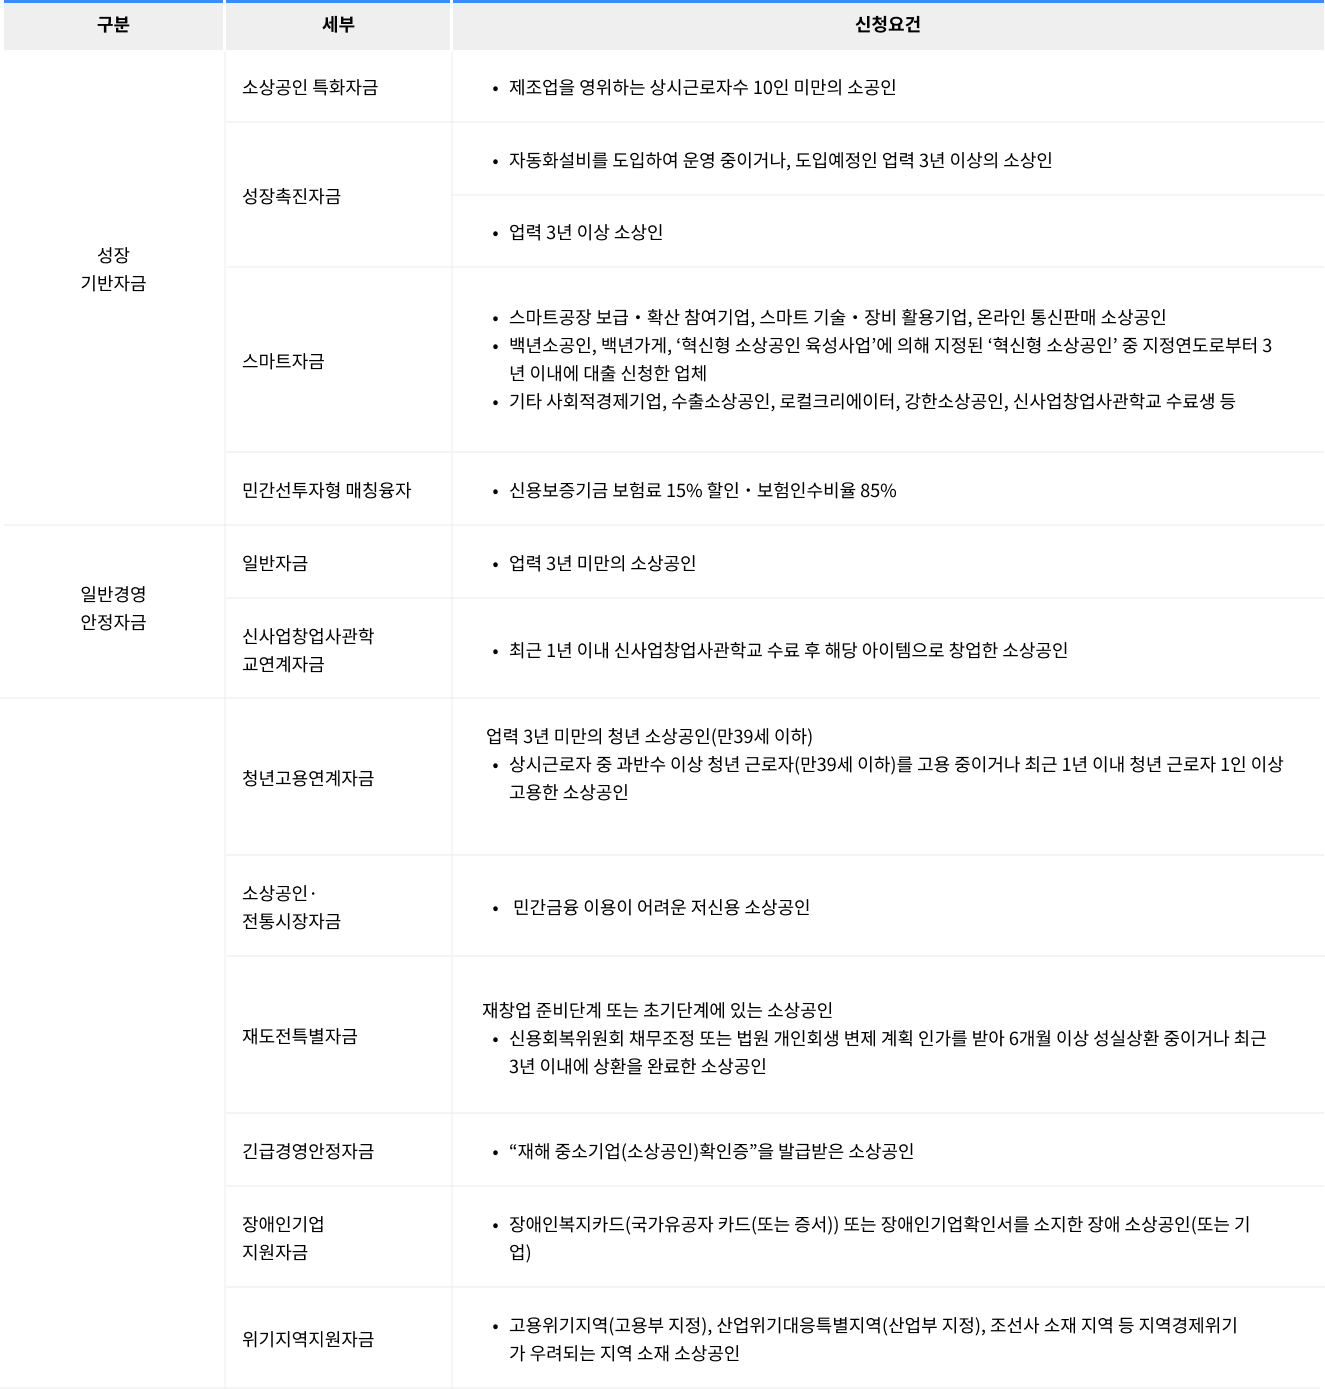
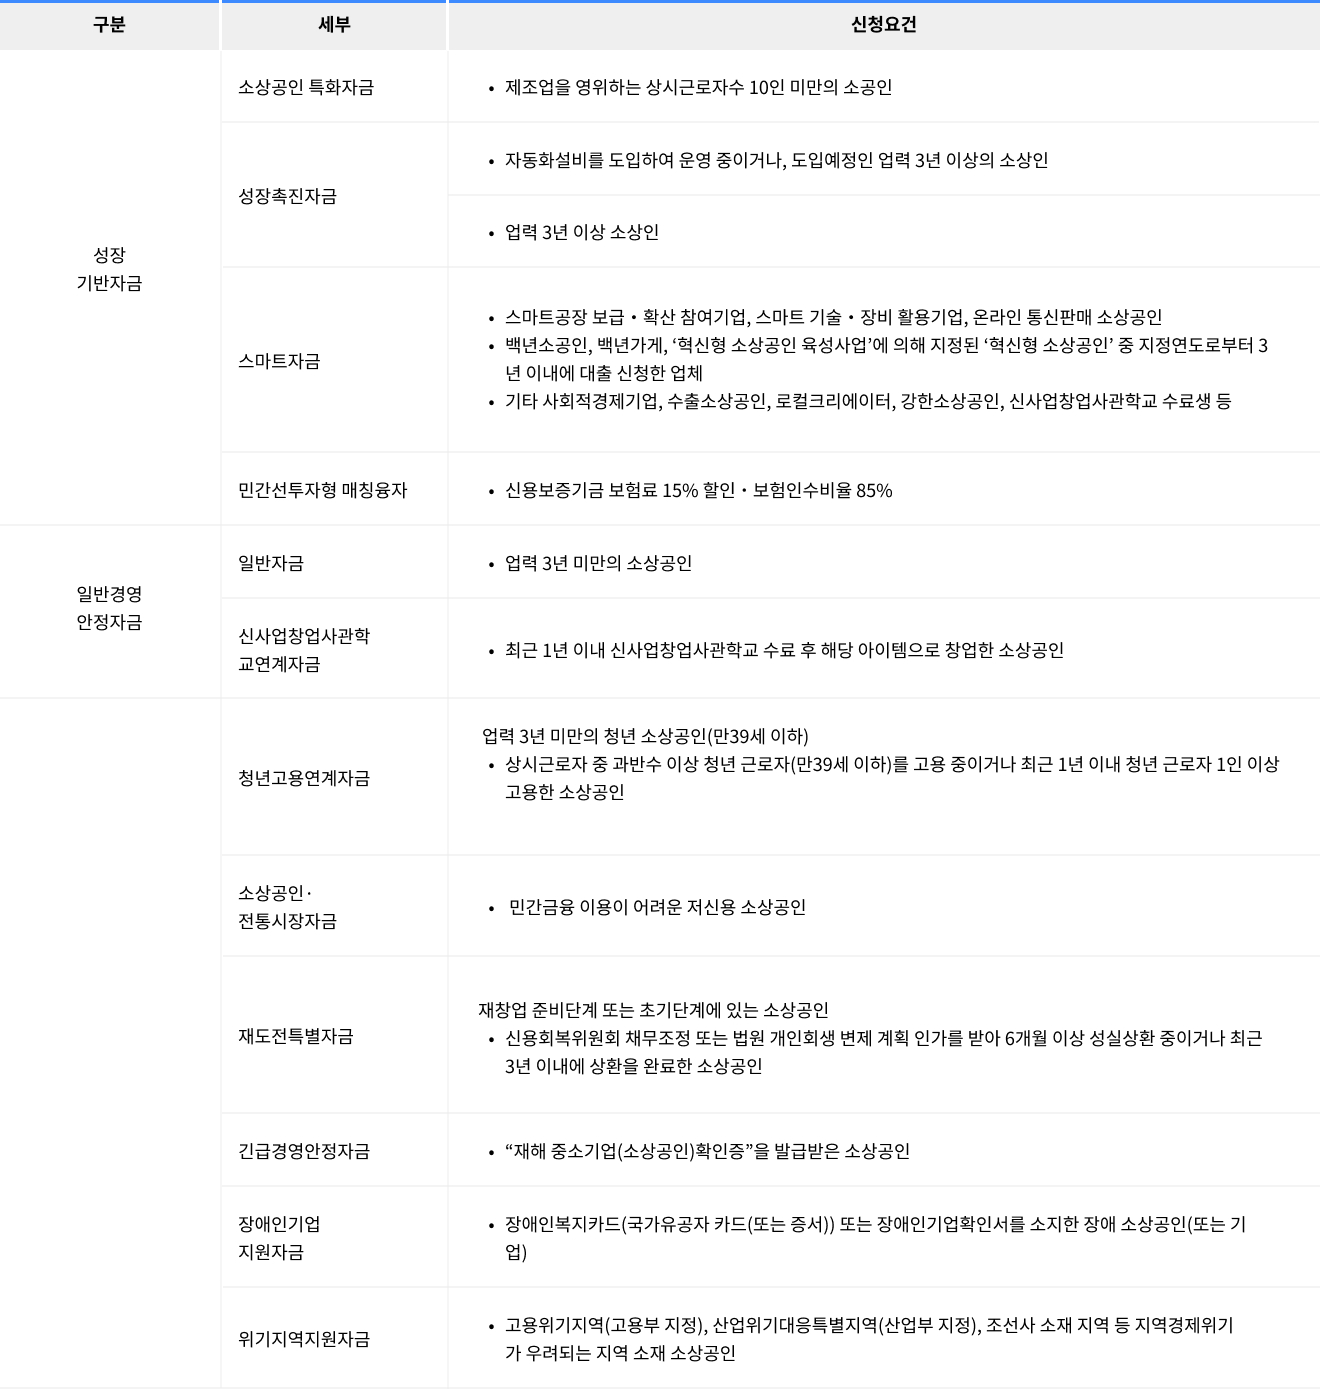
css 수정

diff --git a/jeongwoo-tax/css/scss/split-scss/side-page/05_support_institution.scss b/jeongwoo-tax/css/scss/split-scss/side-page/05_support_institution.scss
@@ -25,6 +25,7 @@
             > * .desc{@include vw-pc(margin-bottom, 70);}
             .content_procedure {
                 .img_box {position: absolute; width: 100vw; @include vw-pc(height, 702); left: 50%; transform: translateX(-50%); z-index: -1;}
+                .img_box img{height: 100%;}
                 .step_box {position: relative; @include vw-pc(padding, 95 0); @include vw-pc(width, 1148); color: #fff;
                     &::after {display: block; content: ""; position: absolute; left: 50%; @include vw-pc(width, .5); height: 100%; transform: translateX(-50%);background-color: #F2F2F2;}
                 }
@@ -36,7 +37,6 @@
                     }
                     &:not(:first-child) {@include vw-pc(margin-top, 75);}
                 }
-                .step_box dl dt 
                 .step_box dl dd.desc_list-ul .desc_list{@include vw-pc(height, 110);}
                 .step_box dl dd.desc_list-ul .desc_list li{@include vw-pc(font-size, 14);}
     
@@ -76,7 +76,7 @@
         > * {@include vw-pc(margin-bottom, 165);}
         .content_list > * {@include vw-pc(margin-bottom, 135);}
         > * .sub_title-round {@include vw-pc(margin-bottom, 35);}
-        > * .img_box {@include vw-pc(margin-bottom, 20);}
+        > * .img_box {@include vw-pc(margin-bottom, 20); @include vw-pc(width, 1320);}
         .desc_list-ul {@include vw-pc(margin-bottom, 60);}
         .content_condition .desc_list .img_box {@include vw-pc(margin-top, 22); @include vw-pc(margin-left, -45);}
         .content_procedure .desc_list-ul:nth-of-type(1) {@include vw-pc(width, 1262);}

diff --git a/jeongwoo-tax/css/scss/style.css b/jeongwoo-tax/css/scss/style.css
@@ -3572,6 +3572,9 @@
     height: 48.75vw;
   }
 }
+.sec_support_institution_2 .inner_1320 .content_box .content_procedure .img_box img {
+  height: 100%;
+}
 .sec_support_institution_2 .inner_1320 .content_box .content_procedure .step_box {
   position: relative;
   padding: 95px 0px;
@@ -3669,11 +3672,11 @@
     margin-top: 5.2083333333vw;
   }
 }
-.sec_support_institution_2 .inner_1320 .content_box .content_procedure .step_box dl dt .step_box dl dd.desc_list-ul .desc_list {
+.sec_support_institution_2 .inner_1320 .content_box .content_procedure .step_box dl dd.desc_list-ul .desc_list {
   height: 110px;
 }
 @media screen and (max-width: 1440px) {
-  .sec_support_institution_2 .inner_1320 .content_box .content_procedure .step_box dl dt .step_box dl dd.desc_list-ul .desc_list {
+  .sec_support_institution_2 .inner_1320 .content_box .content_procedure .step_box dl dd.desc_list-ul .desc_list {
     height: 7.6388888889vw;
   }
 }
@@ -3828,10 +3831,16 @@
 }
 .sec_support_institution_4 .content_box > * .img_box {
   margin-bottom: 20px;
+  width: 1320px;
 }
 @media screen and (max-width: 1440px) {
   .sec_support_institution_4 .content_box > * .img_box {
     margin-bottom: 1.3888888889vw;
+  }
+}
+@media screen and (max-width: 1440px) {
+  .sec_support_institution_4 .content_box > * .img_box {
+    width: 91.6666666667vw;
   }
 }
 .sec_support_institution_4 .content_box .desc_list-ul {

diff --git a/jeongwoo-tax/split-html/side-page/05_support_institution_2.html b/jeongwoo-tax/split-html/side-page/05_support_institution_2.html
@@ -87,10 +87,10 @@
                                 </dt>
                                 <dd class="desc_list-ul">
                                     <ul class="desc_list">
-                                        <ll>≈신용평가 실시 및 신용등급 산출신용평가 실시 및 신용등급 산출
-                                        <ll>≈각종 검토표 충족여부 검토각종 검토표 충족여부 검토
-                                        <ll>≈보증지원 가능 여부 및 보증금액 검토보증지원 가능 여부 및 보증금액 검토
-                                        <ll>≈보증승인(영업점 또는 본부)보증승인(영업점 또는 본부)
+                                        <li>신용평가 실시 및 신용등급 산출신용평가 실시 및 신용등급 산출</li>
+                                        <li>각종 검토표 충족여부 검토각종 검토표 충족여부 검토</li>
+                                        <li>보증지원 가능 여부 및 보증금액 검토보증지원 가능 여부 및 보증금액 검토</li>
+                                        <li>보증승인(영업점 또는 본부)보증승인(영업점 또는 본부)</li>
                                     </ul>
                                 </dd>
                             </dl>
